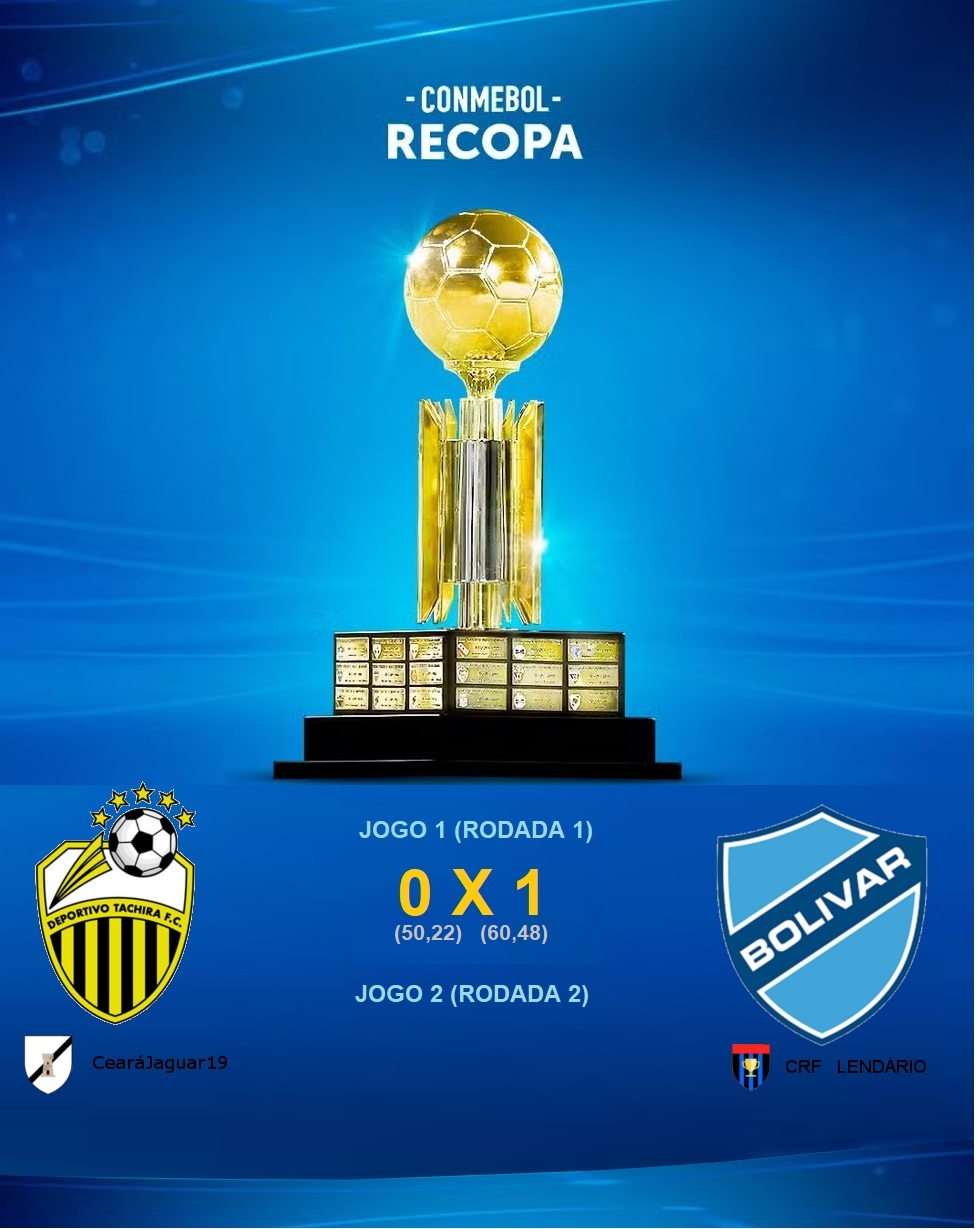
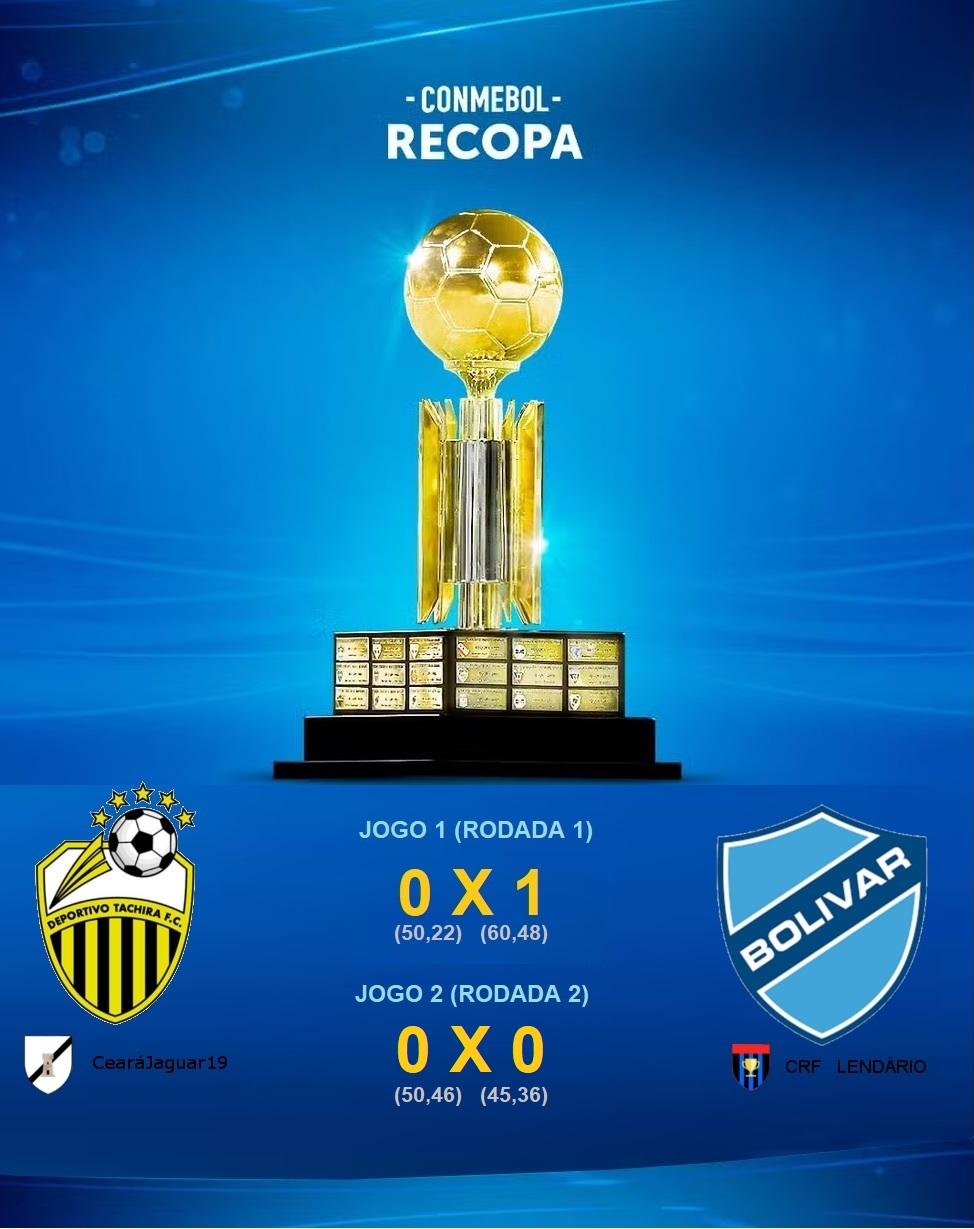
sulamericana

diff --git a/news2.html b/news2.html
@@ -61,17 +61,31 @@
 <div class="index1" style="height: auto;overflow: auto;flex-direction: column;width: 94%;margin-right: 3%; margin-top: 3%; margin-left: 3%;"> <img src="imagens/chamadaSULA.jpg" style="height:500px;width: 100%;">
 
 <p style="font-family: verdana; font-size: 40px;text-align: justify;color: grey;padding-right: 3%;padding-left:3%;padding-top: 5%;text-indent:15%; line-height: 60px;">
-Acompanhe a disputa acessando o menu "Recopa".</p>
-<!--
-    <p style="font-family: verdana; font-size: 40px;text-align: justify;color: grey;padding-right: 3%;padding-left:3%;text-indent:15%; line-height: 60px;">    Com ambos treinadores  elevados à condição de "idolo eterno" em suas respectivas cores, o troféu  servirá para render 
-    ainda mais prestígio a estes cartoleiros que em 2023 atingiram as maiores glórias a que um técnico de clube de cartola 
-    pode almejar, além da premiação extra de 100 reais.
-    Serão dois jogos  cujo empate nos critérios de pontos e no saldo darão o título ao Deportivo Tachira,  que jogará na 
-    condição de atual campeão da Copa Libertadores.
-    Nos processos dias, mais informações pelo  menu "Recopa Sulamericana", que segue em construção.</p>
+
+    Clube Boliviano, mais uma vez sob o comando do consagrado  CRF LENDÁRIO, alcançou seu segundo título internacional ao conquistar a primeira Recopa Sul-Americana de Cartola de Clubes,
+     enfrentando o Deportivo Tachira, campeão da Libertadores e do Mundial de 2023, liderado pelo renomado CearáJaguar19.</p>
+
+    <p style="font-family: verdana; font-size: 40px;text-align: justify;color: grey;padding-right: 3%;padding-left:3%;text-indent:15%; line-height: 60px;">
+        Apesar da vantagem do Tachira por ter vencido a Libertadores e jogar por dois empates, a vitória dos bolivianos no jogo de ida, por 1 x 0, resultou na reversão do benefício de igualdade de placar no egundo jogo. 
+        O empate 0 x 0, ao final dos jogos do Campeonato Brasileiro na segunda-feira, parecia mesmo improvável, especialmente porque o Bolívar terminara a primeira etapa com seus 12 jogadores acionados 
+        somando  apenas 45,36, abaixo dos 48,66 pontos do Tachira, que ainda contava com dois jogadores do Botafogo (Júnior Santos e Tiquinho Soares) a enfrentar o modesto Atlético-GO em casa, no Engenhão. 
+        Embora o Botafogo tenha vencido o Goianiense por 1 x 0, os dois atacantes escalados pelo técnico CearáJaguar, Júnior Santos e o aclamado Tiquinho Soares, não tiveram desempenho decepcionante, 
+        com 0,2 e 1,6 pontos, respectivamente.
+        Apesar de os venezuelanos terminarem com mais pontos, não foi o bastante para superar os bolivianos por uma diferença de pelo menos 10 pontos e assim reverter o resultado do primeiro jogo.
+        Com o empate confirmado no apito final do juiz, não havia mais nada para impedir a torcida mais fervorosa da Bolívia de soltar o grito de "É campeão!"</p>
+
+        <p style="font-family: verdana; font-size: 40px;text-align: justify;color: grey;padding-right: 3%;padding-left:3%;text-indent:15%; line-height: 60px;">
+            
+            Apesar de os venezuelanos terminarem com mais pontos, não foi o bastante para superar os bolivianos por uma diferença de pelo menos 10 pontos e assim reverter o resultado do primeiro jogo.
+            Com o empate confirmado no apito final do juiz, nada mais impedia a torcida mais numerosa da Bolívia de soltar o grito de "É campeão!"</p>
+
+            <p style="font-family: verdana; font-size: 40px;text-align: justify;color: grey;padding-right: 3%;padding-left:3%;text-indent:15%; line-height: 60px;">
+            
+                Parabéns ao CRF LENDÁRIO, que chegou ao terceiro título na carreira, sendo os outros dois: Sulamericana 2021 e Sulamericana 2023! Agora é buscar o inédito título da Libertadores, e mais uma 
+                vez sob o comando do Bolívar, que aqui na Liga dos Pampas constitui uma verdadeira potência continental!</p>
 
     <a href="index.html" style="text-align: right;padding-right:3%; font-size: 40px; padding: 5%; font-family: Arial;">VOLTAR</a>
--->
+
 </div>
 
 

diff --git a/index.html b/index.html
@@ -90,14 +90,14 @@
 
 
 <a href="news2.html" style="text-decoration:none;"><div class="index1" style="height: 700px;flex-direction:column ;width: 94%;margin-right: 3%; margin-top: 5%; margin-left: 3%;"> 
-    <img src="imagens/chamadaSULA.jpg" style="height:400px;width:920px;">
+    <img src="imagens/chamadaSULA.jpg" style="height:400px;width:80%;margin-left: 10%;">
 
 
     <h2 style="font-size: 60px;text-align: center; color: rgb(67, 66, 66);">Taça Recopa Sulamericana 2024</h2>
 
 
     <P style="font-family: verdana; font-size: 30px;text-align: center;color: grey;padding-right: 3%;padding-bottom: 3%;">
-        <i>Bolívar larga na frente e vai para o segundo jogo em vantagem....leia mais</i>
+        <i>Bolívar segura o empate e leva o título da Recopa...leia mais</i>
     </P></a>
     
 
